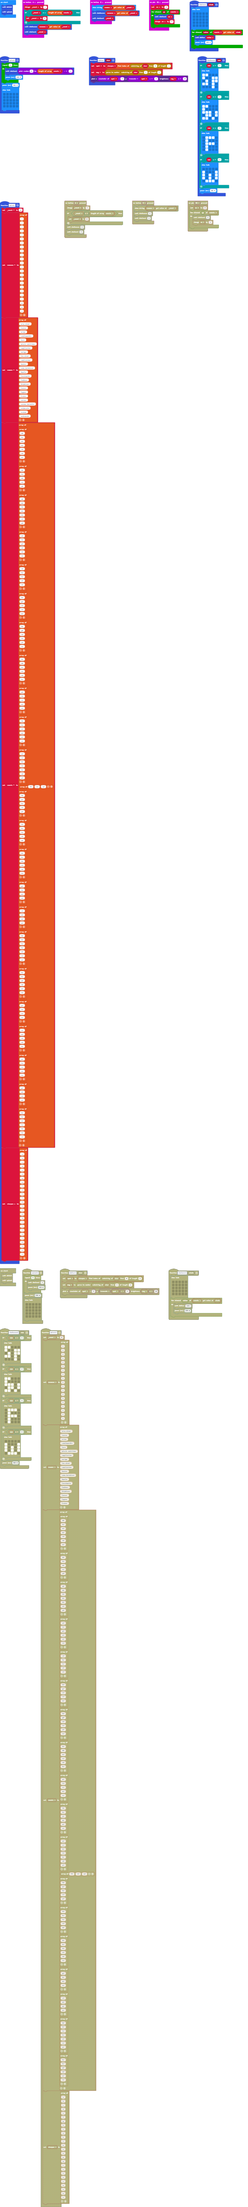
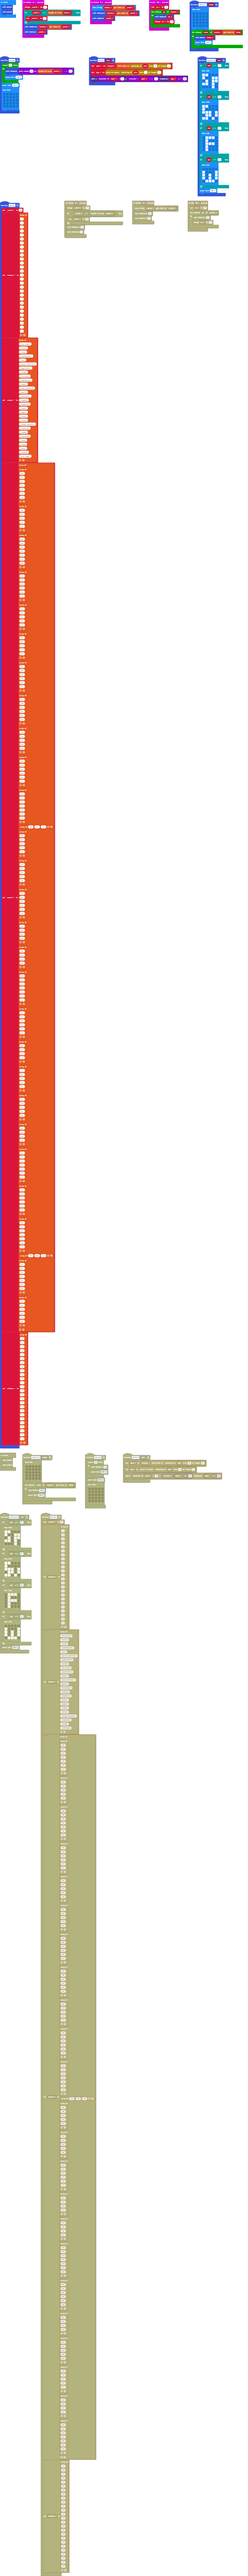
Update main.blocks, main.ts

Changed region(s): [[0.0, 0.0, 0.8873, 0.9993], [0.2448, 0.0, 0.7343, 0.1249], [0.7343, 0.0, 0.9791, 0.1249]]

diff --git a/main.ts b/main.ts
@@ -70,7 +70,12 @@ function doInit () {
     1,
     0,
     0,
-    3
+    3,
+    1,
+    1,
+    3,
+    2,
+    1
     ]
     cnames = [
     "ursa minor",
@@ -96,7 +101,12 @@ function doInit () {
     "corona borealis",
     "vulpecula",
     "scutum",
-    "andromeda"
+    "andromeda",
+    "libra",
+    "virgo",
+    "aries",
+    "serpens",
+    "ursa major"
     ]
     consts = [
     [
@@ -272,6 +282,41 @@ function doInit () {
     "f5",
     "l5",
     "r3"
+    ],
+    [
+    "c4",
+    "i3",
+    "s2",
+    "v2",
+    "f1",
+    "k1"
+    ],
+    [
+    "k2",
+    "m1",
+    "p1",
+    "q1",
+    "o4",
+    "w6",
+    "c5"
+    ],
+    ["f2", "m6", "s4"],
+    [
+    "e2",
+    "i2",
+    "j2",
+    "s2",
+    "v3",
+    "p2",
+    "k2"
+    ],
+    [
+    "j5",
+    "m3",
+    "s4",
+    "o4",
+    "l4",
+    "f3"
     ]
     ]
     starpos = [
